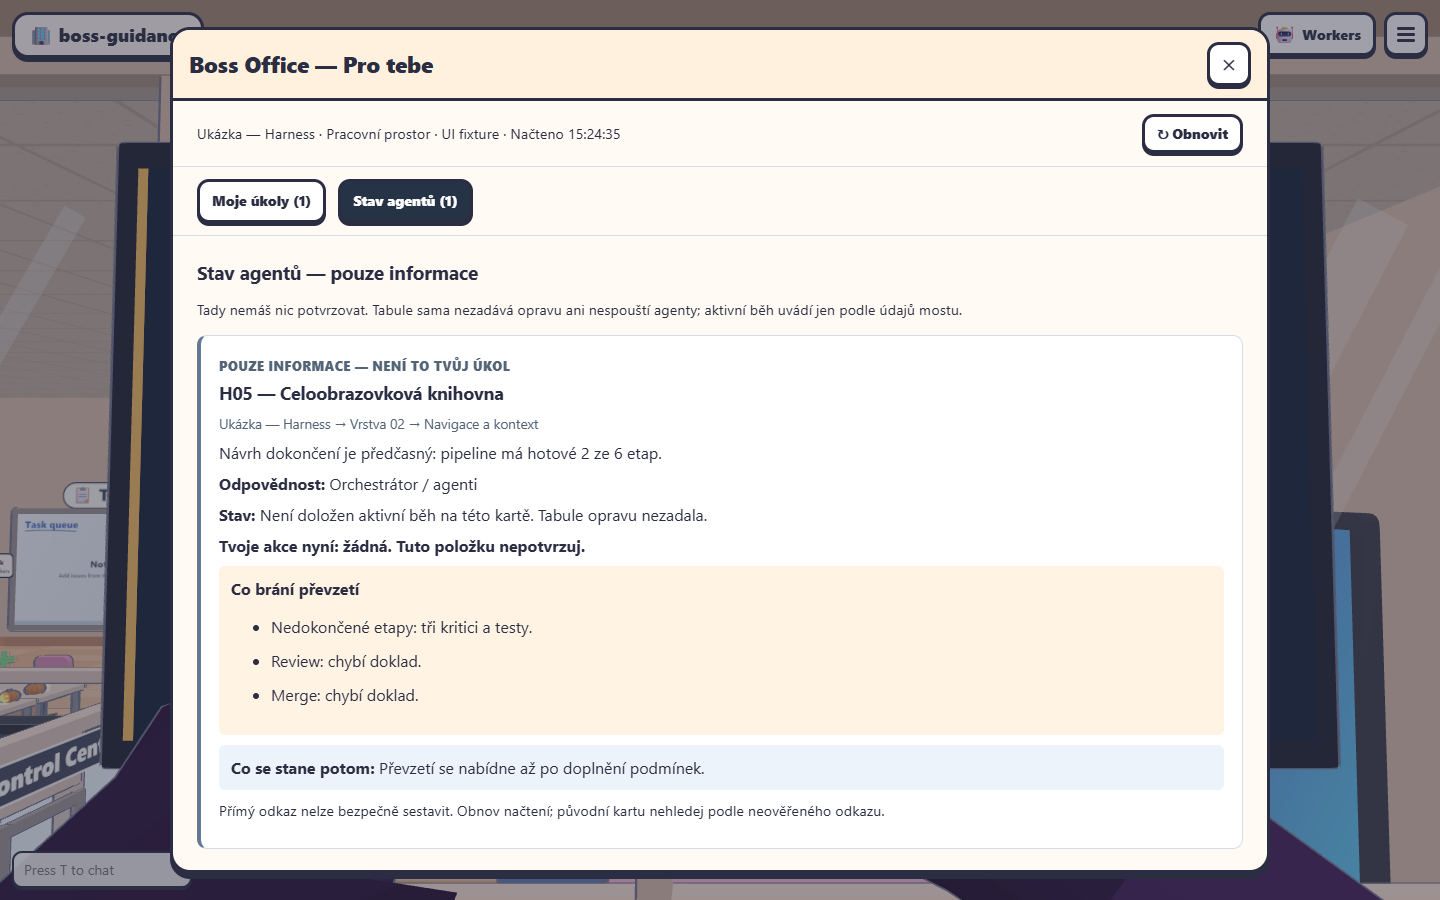
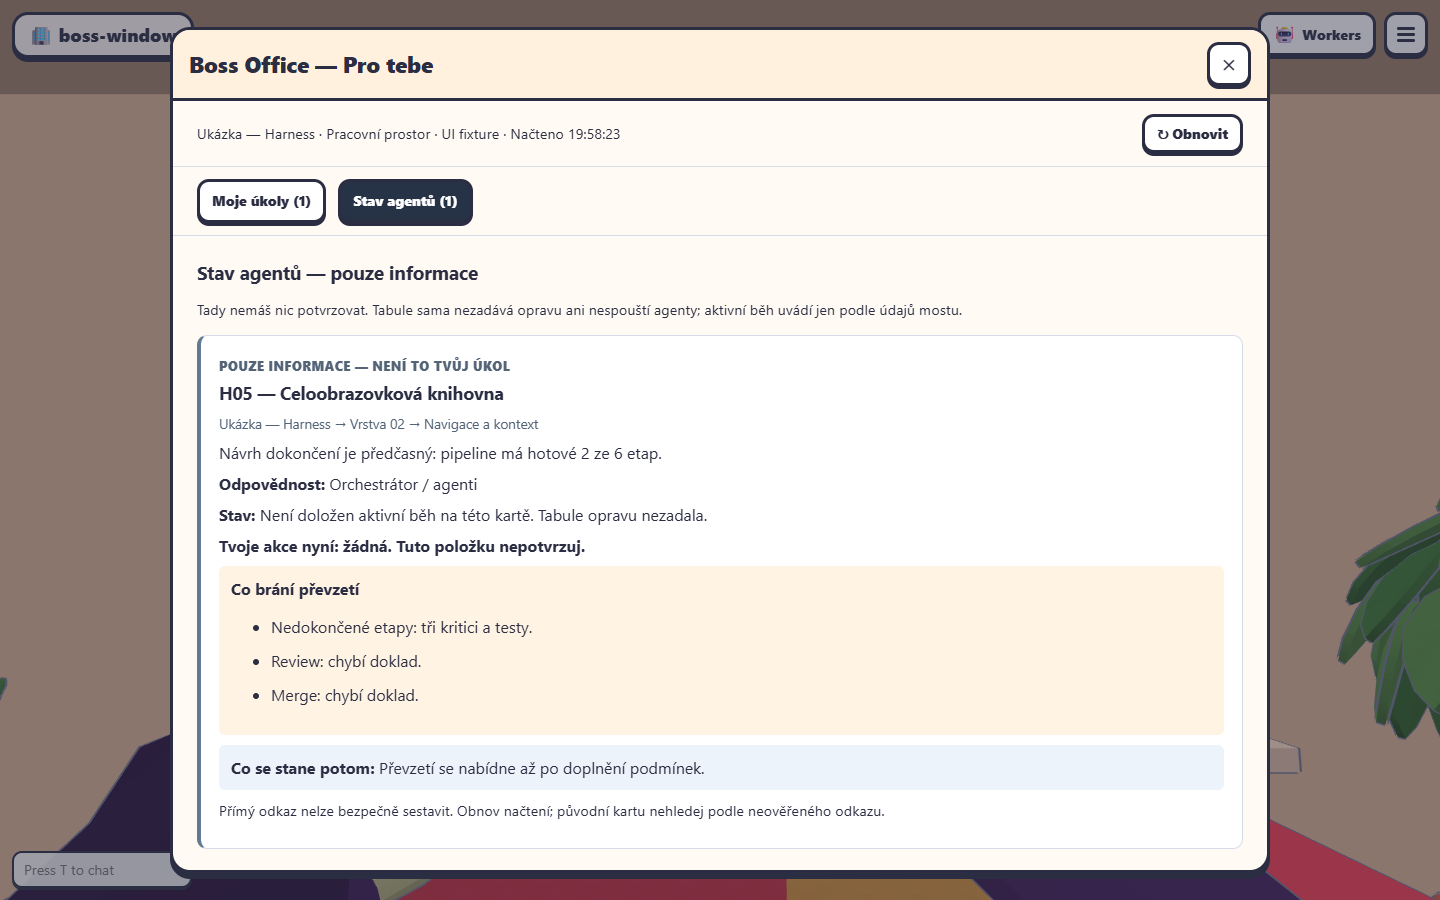
fix(boss): move board above the red couch

diff --git a/tests/boss-attention-world.test.ts b/tests/boss-attention-world.test.ts
@@ -1,0 +1,26 @@
+import test from 'node:test';
+import assert from 'node:assert/strict';
+import { Vector3 } from 'three';
+import { LOFT } from '../src/shared/layout.js';
+import { BOSS_ATTENTION_BOARD, bossAttentionBoard } from '../src/client/features/bossattention/world.js';
+import type { Site } from '../src/client/world/office/fixture.js';
+import type { Interactable } from '../src/client/world/types.js';
+
+test('boss board fits above the red couch and faces the accessible room side', () => {
+  const interactables: Interactable[] = [];
+  const built = bossAttentionBoard({ interactables } as Site);
+  const board = built.handle!.bossAttentionBoard;
+  const s = BOSS_ATTENTION_BOARD;
+  assert.equal(s.z, (LOFT.minZ + LOFT.maxZ) / 2);
+  assert.ok(s.y - s.height / 2 - 0.08 > LOFT.y + 1, 'frame clears the couch backrest');
+  assert.ok(s.y + s.height / 2 + 0.08 < LOFT.y + LOFT.height, 'frame clears ceiling');
+  assert.ok(s.width + 0.16 < 2.8, 'window edges remain visible');
+  assert.ok(board.position.x < s.x && s.x < LOFT.maxX, 'face is in front of east frame');
+  const normal = new Vector3(0, 0, 1).applyEuler(board.rotation);
+  assert.ok(normal.distanceTo(new Vector3(-1, 0, 0)) < 1e-8);
+  assert.equal(interactables.length, 1);
+  assert.equal(interactables[0].kind, 'bossattention');
+  assert.equal(interactables[0].y, LOFT.y);
+  assert.ok(interactables[0].x < LOFT.maxX - 1.15, 'interaction anchor is outside couch collider');
+  assert.equal(interactables[0].z, s.z);
+});

diff --git a/src/client/features/bossattention/world.ts b/src/client/features/bossattention/world.ts
@@ -10,16 +10,18 @@ declare module '../../world/types' {
   }
 }
 
-// Inside the north glass, away from the telescope, stairs, desk and the Boss Office sign.
-export const BOSS_ATTENTION_BOARD = { x: 12.2, y: LOFT.y + 1.5, z: LOFT.minZ + 0.19, width: 3.5, height: 1.7 } as const;
+// Above the red couch at the east window, facing into the Boss Office.
+export const BOSS_ATTENTION_BOARD = { x: LOFT.maxX - 0.19, y: LOFT.y + 1.85, z: (LOFT.minZ + LOFT.maxZ) / 2, width: 2.2, height: 1.15 } as const;
 
 export const bossAttentionBoard: Fixture<'bossAttentionBoard'> = (site) => {
   const s = BOSS_ATTENTION_BOARD;
   const group = new THREE.Group();
   const frame = mesh(roundedBox(s.width + 0.16, s.height + 0.16, 0.08, 0.04), toon('#263347'), s.x, s.y, s.z, false);
+  frame.rotation.y = -Math.PI / 2;
   const face = new THREE.Mesh(new THREE.PlaneGeometry(s.width, s.height), new THREE.MeshBasicMaterial({ color: '#ffffff' }));
-  face.position.set(s.x, s.y, s.z + 0.045);
-  const it: Interactable = { kind: 'bossattention', x: s.x, y: LOFT.y, z: s.z + 1, radius: 1.8 };
+  face.position.set(s.x - 0.045, s.y, s.z);
+  face.rotation.y = -Math.PI / 2;
+  const it: Interactable = { kind: 'bossattention', x: s.x - 1, y: LOFT.y, z: s.z, radius: 1.8 };
   face.userData.interact = it;
   frame.userData.interact = it;
   group.add(frame, face);

diff --git a/README.md b/README.md
@@ -32,7 +32,7 @@ curl -fsSL https://raw.githubusercontent.com/AgentSystemLabs/agent-office/main/i
 
 ## What it is
 
-- **Boss Office — Pro tebe.** Upstairs, press **E** at the board inside the north glass. **Moje úkoly** provides numbered instructions and expected saved outcomes for human questions, eligible completion proposals and worker input. **Stav agentů** lists system blockers separately. Links open the exact Opora card or terminal; answers and confirmation are saved there, not on the board. See [the Boss Office attention board](docs/boss-attention.md).
+- **Boss Office — Pro tebe.** Upstairs, press **E** at the board above the red couch at the east window. **Moje úkoly** provides numbered instructions and expected saved outcomes for human questions, eligible completion proposals and worker input. **Stav agentů** lists system blockers separately. Links open the exact Opora card or terminal; answers and confirmation are saved there, not on the board. See [the Boss Office attention board](docs/boss-attention.md).
 - **A floor per project.** Ride the elevator, pick one of your GitHub repos, and the office clones it (showing how far along it is) and opens a floor for it. Every worker, board and queue on that floor works in that checkout.
 - **Workers at desks.** Walk up to an empty desk, press **E**, and pick Claude Code, Codex, OpenCode, Grok, Muse, DeepSeek Harness, Pi or Cursor, each with its model and reasoning effort. The agent's live terminal shows on its laptop, and anyone can open it and type.
 - **Talk instead of typing.** Hold **Ctrl+Space** (or the **🎤**) in a worker's terminal or a prompt box and say what you want: it's typed in for you to send. Your browser does the listening, so there's nothing to install.

diff --git a/docs/boss-attention.md b/docs/boss-attention.md
@@ -1,6 +1,6 @@
 # Boss Office — Pro tebe
 
-The board inside the Boss Office's north glass (up the stairs, facing into the room) is your inbox for decisions and answers. Aim at it and press **E**. The top-right **✕** or **Esc** closes it and returns to mouse-look without another click.
+The board above the Boss Office's red couch at the east window (up the stairs, facing into the room) is your inbox for decisions and answers. Stand in front of the couch, aim at the board and press **E**. The top-right **✕** or **Esc** closes it and returns to mouse-look without another click. The board fits above the couch backrest with window visible around its edges; the couch remains usable.
 
 ## What belongs to you
 
